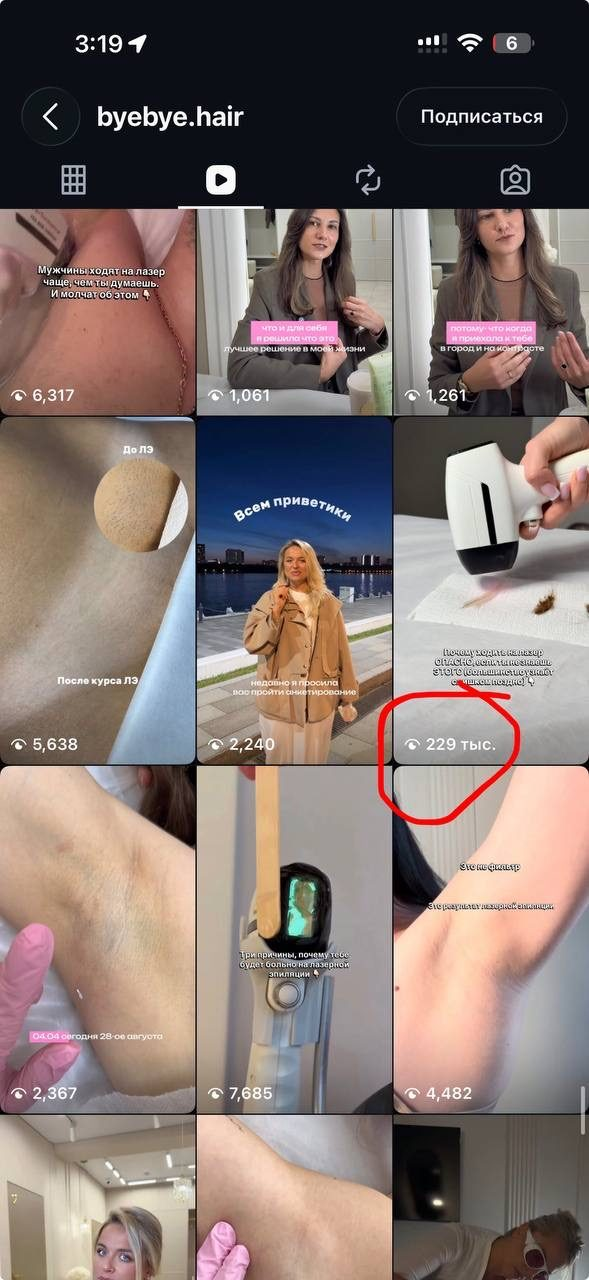
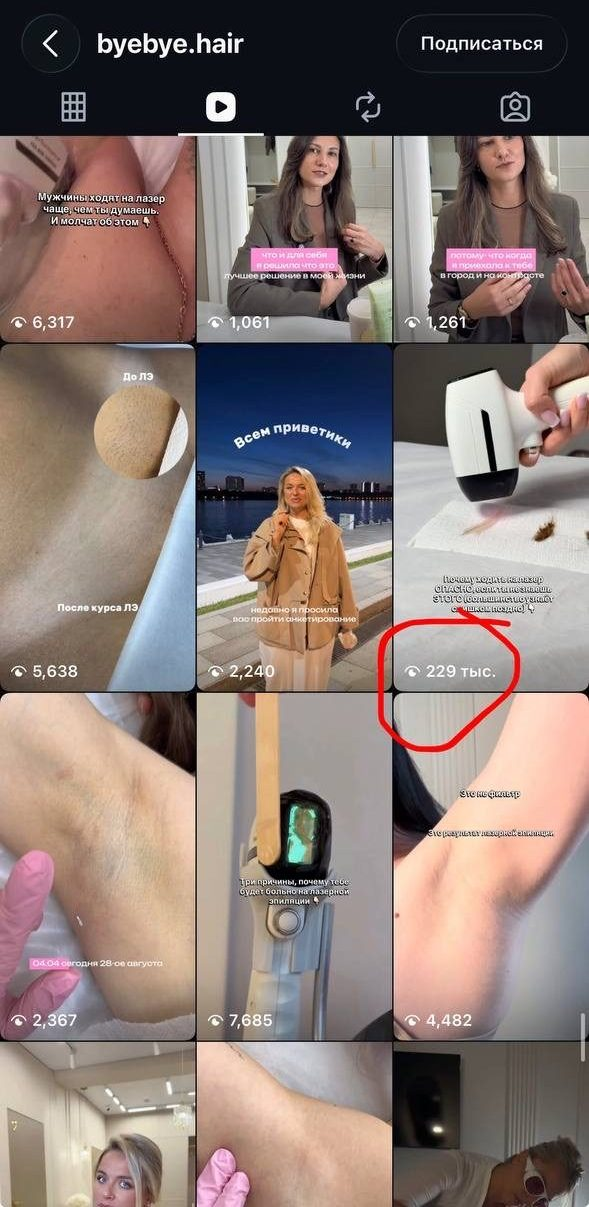
Кейс 1 млн: ДО Эдгара, +10к за месяц → миллион; англоязычный аккаунт отдельно; крупные цифры ДО; без статус-баров
Claude-Session: https://claude.ai/code/session_01CNwDrc3vxLTo57Fss5oR83

diff --git a/reels/index.html b/reels/index.html
@@ -328,6 +328,13 @@ footer{font-size:13px;color:var(--muted);margin-top:40px}
 .cz-after + .cz-bang{margin-top:18px!important}
 .tried .bc-k{font-size:clamp(22px,6.6vw,36px)}
 
+/* крупные цифры ДО */
+.views.dim{display:grid;grid-template-columns:repeat(auto-fill,minmax(96px,1fr));gap:8px;margin:6px 0 14px}
+.views.dim span{font-size:clamp(20px,6.2vw,26px);color:#f1eaf1;background:rgba(255,255,255,.07);border:1px solid rgba(255,255,255,.16);border-radius:14px;padding:12px 6px;text-align:center;line-height:1}
+.views.dim span::after{content:"👁";display:block;font-size:11px;margin:6px 0 0;opacity:.55;font-family:var(--f-body)}
+.views.dim.noeye span::after{content:none}
+.cz-before .tag{background:rgba(255,255,255,.14);color:#fff}
+
 </style>
 </head>
 <body>
@@ -394,15 +401,15 @@ footer{font-size:13px;color:var(--muted);margin-top:40px}
     <article class="cz" data-tab="🚗">
       <span class="cz-niche">Личный бренд · автомобили · Испания</span>
       <h3 class="cz-hook">1 000 000 ПОДПИСЧИКОВ ЗА ГОД. Да, миллион</h3>
-      <div class="cz-before"><span class="tag">ДО</span><p>До нас ролики этого блога <b>выше 2000 просмотров вообще ничего не набирали.</b> Ни ниши, ни аудитории, ни понимания формата.</p><div class="views dim"><span>≈600</span><span>до 2 000</span></div></div>
+      <div class="cz-before"><span class="tag">ДО</span><p>До нас ролики этого блога <b>выше 2000 просмотров вообще ничего не набирали.</b> 2 700 подписчиков, ни ниши, ни аудитории, ни понимания формата.</p><div class="views dim"><span>1 594</span><span>1 835</span><span>2 218</span><span>2 264</span><span>2 329</span><span>3 630</span></div><div class="ph-wrap"><div class="ph"><img loading="lazy" width="900" height="1843" src="../img/edgar-before.jpg" alt="Просмотры до: 1594, 1835, 2218, 2264, 2329, 3630"><img loading="lazy" class="wide" width="900" height="301" src="../img/edgar-2709.jpg" alt="2 709 подписчиков"></div><div class="ph-nav"><span class="ph-dots"><i></i><i></i></span><span class="ph-hint">листай скрины →</span></div></div></div>
       <p class="cz-bang">💥 БАЦ. Мы придумываем им формат 👇</p>
-      <div class="cz-after"><span class="tag">ПОСЛЕ</span><p class="cz-big chrome"><span class="cnt" data-to="1000000">1 000 000</span></p><div class="views hot"><span>3,3 млн</span><span>3,1 млн</span><span>2,7 млн</span><span>2,2 млн</span><span>2 млн</span><span>879к</span></div><p>Так мы начинали 🔥 С 600 просмотров вышли на миллионники, <b>+10 000 подписчиков за первый месяц</b> за 20 рилс, дальше 105 тысяч, а через год — <span class="hl">МИЛЛИОН</span>. Люди 1000 подписчиков за год набрать не могут, а мы сделали миллион. Даже Вика Боня на них подписалась 😏</p><div class="ph-wrap"><div class="ph"><img loading="lazy" width="900" height="1826" src="../img/edgar-chat.jpg" alt="Так мы начинали: 158 тыс., 879 тыс. в чате с клиентом"><img loading="lazy" width="900" height="1137" src="../img/edgar-10k.jpg" alt="+10 000 подписчиков в первый месяц за 20 рилс: 3,3 млн, 3,1 млн, 2,7 млн"><img loading="lazy" width="900" height="1437" src="../img/edgar-after.jpg" alt="После: 2 млн, 2,2 млн, 622 тыс."><img loading="lazy" class="wide" width="900" height="195" src="../img/edgar-105k.jpg" alt="105 тысяч подписчиков"><img loading="lazy" class="wide" width="800" height="520" src="../img/behind-3.jpg" alt="1 млн подписчиков, подписана victoriabonya"></div><div class="ph-nav"><span class="ph-dots"><i></i><i></i><i></i><i></i><i></i></span><span class="ph-hint">листай скрины →</span></div></div></div>
+      <div class="cz-after"><span class="tag">ПОСЛЕ</span><p class="cz-big chrome">+10 000</p><div class="views hot"><span>3,3 млн</span><span>3,1 млн</span><span>2,7 млн</span></div><p>Так мы начинали 🔥 Нашли формат очень быстро: с 600 просмотров вышли на миллионники и сделали <span class="hl">+10 000 подписчиков за первый месяц всего за 20 рилс.</span></p><div class="ph-wrap"><div class="ph"><img loading="lazy" width="900" height="1137" src="../img/edgar-10k.jpg" alt="+10 000 подписчиков в первый месяц за 20 рилс: 3,3 млн, 3,1 млн, 2,7 млн"><img loading="lazy" width="900" height="1826" src="../img/edgar-chat.jpg" alt="Так мы начинали: 158 тыс., 879 тыс. в чате с клиентом"></div><div class="ph-nav"><span class="ph-dots"><i></i><i></i></span><span class="ph-hint">листай скрины →</span></div></div></div><p class="cz-bang">🚀 А дальше — больше</p><div class="cz-after"><span class="tag">ЧЕРЕЗ ГОД</span><p class="cz-big chrome"><span class="cnt" data-to="1000000">1 000 000</span></p><div class="views hot"><span>подписчиков</span><span>0 ₽ на рекламу</span></div><p>Люди 1000 подписчиков за год набрать не могут, а мы сделали <span class="hl">МИЛЛИОН</span>. Даже Вика Боня на них подписалась 😏</p><div class="ph-wrap"><div class="ph"><img loading="lazy" width="900" height="1437" src="../img/edgar-after.jpg" alt="2 млн, 2,2 млн, 622 тыс."><img loading="lazy" class="wide" width="900" height="195" src="../img/edgar-105k.jpg" alt="105 тысяч подписчиков"><img loading="lazy" class="wide" width="800" height="520" src="../img/behind-3.jpg" alt="1 млн подписчиков, подписана victoriabonya"></div><div class="ph-nav"><span class="ph-dots"><i></i><i></i><i></i></span><span class="ph-hint">листай скрины →</span></div></div></div>
     </article><article class="cz" data-tab="💆♀">
       <span class="cz-niche">Студия лазерной эпиляции</span>
       <h3 class="cz-hook">Ни один СММщик не дал им результата. А с первых же моих рилс — МИЛЛИОН 😳</h3>
-      <div class="cz-before"><span class="tag">ДО</span><p>Студия пробовала и то, и сё: нанимала разных СММщиков, снимала «наши преимущества» и «почему мы лучшие». <b>Никто не дал результата.</b> Все просмотры были вот такие 👇</p><div class="views dim"><span>1 068</span><span>1 732</span><span>2 053</span><span>1 220</span></div><div class="ph one"><img loading="lazy" width="589" height="1280" src="../img/laser-before.jpg" alt="Просмотры студии до: по 1–2 тысячи"></div></div>
+      <div class="cz-before"><span class="tag">ДО</span><p>Студия пробовала и то, и сё: нанимала разных СММщиков, снимала «наши преимущества» и «почему мы лучшие». <b>Никто не дал результата.</b> Все просмотры были вот такие 👇</p><div class="views dim"><span>1 068</span><span>1 732</span><span>2 053</span><span>1 220</span></div><div class="ph one"><img loading="lazy" width="589" height="1207" src="../img/laser-before.jpg" alt="Просмотры студии до: по 1–2 тысячи"></div></div>
       <p class="cz-bang">💥 БАЦ. Студия приходит ко мне 👇</p>
-      <div class="cz-after"><span class="tag">ПОСЛЕ</span><div class="views hot"><span>1 млн</span><span>229к</span><span>183к</span><span>119к</span><span>102к</span><span>71к</span></div><p>Просмотры <b>сразу же с первых рилс.</b> Один ролик — <span class="hl">1 млн просмотров и +130 заявок</span>, а за ним десятки роликов на 10–200 тысяч. А потом прилетает вот такое сообщение, и там уже 5,1 млн 🔥</p><div class="ph-wrap"><div class="ph"><img loading="lazy" width="589" height="1280" src="../img/laser-after5.jpg" alt="1 млн просмотров"><img loading="lazy" width="589" height="1280" src="../img/laser-after1.jpg" alt="229 тыс."><img loading="lazy" width="589" height="1280" src="../img/laser-after3.jpg" alt="183 тыс., 43,8 тыс., 52,5 тыс."><img loading="lazy" width="589" height="1280" src="../img/laser-after7.jpg" alt="71 тыс., 102 тыс., 35,3 тыс."><img loading="lazy" width="589" height="1280" src="../img/laser-after2.jpg" alt="19,9 тыс., 28,2 тыс., 119 тыс."><img loading="lazy" width="589" height="1280" src="../img/laser-after4.jpg" alt="50,3 тыс., 19 тыс., 27,6 тыс."><img loading="lazy" width="589" height="1280" src="../img/laser-after6.jpg" alt="36,8 тыс., 46,2 тыс., 28,6 тыс."><img loading="lazy" width="900" height="1356" src="../img/laser-dasha.jpg" alt="«Смотри просмотры»: 5,1 млн и 568 тыс."></div><div class="ph-nav"><span class="ph-dots"><i></i><i></i><i></i><i></i><i></i><i></i><i></i><i></i></span><span class="ph-hint">листай скрины →</span></div></div></div>
+      <div class="cz-after"><span class="tag">ПОСЛЕ</span><div class="views hot"><span>1 млн</span><span>229к</span><span>183к</span><span>119к</span><span>102к</span><span>71к</span></div><p>Просмотры <b>сразу же с первых рилс.</b> Один ролик — <span class="hl">1 млн просмотров и +130 заявок</span>, а за ним десятки роликов на 10–200 тысяч. А потом прилетает вот такое сообщение, и там уже 5,1 млн 🔥</p><div class="ph-wrap"><div class="ph"><img loading="lazy" width="589" height="1207" src="../img/laser-after5.jpg" alt="1 млн просмотров"><img loading="lazy" width="589" height="1207" src="../img/laser-after1.jpg" alt="229 тыс."><img loading="lazy" width="589" height="1207" src="../img/laser-after3.jpg" alt="183 тыс., 43,8 тыс., 52,5 тыс."><img loading="lazy" width="589" height="1207" src="../img/laser-after7.jpg" alt="71 тыс., 102 тыс., 35,3 тыс."><img loading="lazy" width="589" height="1207" src="../img/laser-after2.jpg" alt="19,9 тыс., 28,2 тыс., 119 тыс."><img loading="lazy" width="589" height="1207" src="../img/laser-after4.jpg" alt="50,3 тыс., 19 тыс., 27,6 тыс."><img loading="lazy" width="589" height="1207" src="../img/laser-after6.jpg" alt="36,8 тыс., 46,2 тыс., 28,6 тыс."><img loading="lazy" width="900" height="1356" src="../img/laser-dasha.jpg" alt="«Смотри просмотры»: 5,1 млн и 568 тыс."></div><div class="ph-nav"><span class="ph-dots"><i></i><i></i><i></i><i></i><i></i><i></i><i></i><i></i></span><span class="ph-hint">листай скрины →</span></div></div></div>
     </article><article class="cz" data-tab="🏝">
       <span class="cz-niche">Элитная недвижимость · Пхукет</span>
       <h3 class="cz-hook">Ни одна команда не могла набрать ему даже 10 тысяч. А потом пришла я 😏</h3>
@@ -414,13 +421,13 @@ footer{font-size:13px;color:var(--muted);margin-top:40px}
       <h3 class="cz-hook">Сама себе кейс 😎 Десятки роликов-миллионников</h3>
       <div class="cz-before"><span class="tag">ДО</span><p>Мой аккаунт стартовал вот отсюда 👇</p><div class="views dim"><span>901 подписчик</span></div><div class="ph one"><img loading="lazy" class="wide" width="842" height="235" src="../img/acc1-901.jpg" alt="901 подписчик"></div></div>
       <p class="cz-bang">💥 БАЦ. Я берусь за свой блог 👇</p>
-      <div class="cz-after"><span class="tag">ПОСЛЕ</span><p class="cz-big chrome">47 000</p><div class="views hot"><span>17,2 млн</span><span>9,2 млн</span><span>9 млн</span><span>6,1 млн</span><span>4,6 млн</span><span>4 млн</span><span>3,9 млн</span><span>3,2 млн</span></div><p>Я вырастила собственный аккаунт <span class="hl">до 47 тысяч подписчиков</span>. И это не один случайный залёт, а <b>десятки миллионников</b>.</p><div class="ph-wrap"><div class="ph"><img loading="lazy" width="900" height="1056" src="../img/my-reels-4m.jpg" alt="4,6 млн, 4 млн, 3,9 млн, 3,2 млн, 2,7 млн"><img loading="lazy" width="783" height="1280" src="../img/my-reels-17m.jpg" alt="17,2 млн, 1,1 млн, 768 тыс., 436 тыс."><img loading="lazy" class="wide" width="900" height="575" src="../img/my-reels-phone.jpg" alt="9,2 млн, 9 млн, 6,1 млн, 3,2 млн, 2,4 млн"><img loading="lazy" class="wide" width="900" height="246" src="../img/acc-47k.jpg" alt="47,4 тыс. подписчиков"></div><div class="ph-nav"><span class="ph-dots"><i></i><i></i><i></i><i></i></span><span class="ph-hint">листай скрины →</span></div></div></div><p class="cz-bang">🔁 А потом я сделала это ещё раз</p><div class="cz-after"><span class="tag">ВТОРОЙ АККАУНТ · С НУЛЯ</span><p class="cz-big chrome">0 → 18 000</p><div class="views hot"><span>за 4 месяца</span></div><p>Второй аккаунт до <b>18 тысяч за 4 месяца</b>. Во второй раз. Так же с нуля. И смогу повторить результат ещё хоть сколько раз, потому что <span class="hl">знаю, КАК это делать.</span></p><div class="ph-wrap"><div class="ph"><img loading="lazy" class="wide" width="900" height="256" src="../img/acc2-0.jpg" alt="0 подписчиков"><img loading="lazy" class="wide" width="900" height="291" src="../img/acc2-10k.jpg" alt="10 тыс. подписчиков"><img loading="lazy" class="wide" width="900" height="235" src="../img/acc2-14k.jpg" alt="14,8 тыс. подписчиков"><img loading="lazy" class="wide" width="900" height="207" src="../img/acc2-18k.jpg" alt="18,2 тыс. подписчиков"></div><div class="ph-nav"><span class="ph-dots"><i></i><i></i><i></i><i></i></span><span class="ph-hint">листай скрины →</span></div></div></div>
+      <div class="cz-after"><span class="tag">ПОСЛЕ</span><p class="cz-big chrome">47 000</p><div class="views hot"><span>17,2 млн</span><span>9,2 млн</span><span>9 млн</span><span>6,1 млн</span><span>3,2 млн</span><span>2,4 млн</span><span>1,7 млн</span><span>1,2 млн</span></div><p>Я вырастила собственный аккаунт <span class="hl">до 47 тысяч подписчиков</span>. И это не один случайный залёт, а <b>десятки миллионников</b>.</p><div class="ph-wrap"><div class="ph"><img loading="lazy" width="783" height="1280" src="../img/my-reels-17m.jpg" alt="17,2 млн, 1,1 млн, 768 тыс., 436 тыс."><img loading="lazy" class="wide" width="900" height="575" src="../img/my-reels-phone.jpg" alt="9,2 млн, 9 млн, 6,1 млн, 3,2 млн, 2,4 млн"><img loading="lazy" class="wide" width="900" height="246" src="../img/acc-47k.jpg" alt="47,4 тыс. подписчиков"></div><div class="ph-nav"><span class="ph-dots"><i></i><i></i><i></i></span><span class="ph-hint">листай скрины →</span></div></div></div><p class="cz-bang">🔁 А потом я сделала это ещё раз</p><div class="cz-after"><span class="tag">ВТОРОЙ АККАУНТ · С НУЛЯ</span><p class="cz-big chrome">0 → 18 000</p><div class="views hot"><span>за 4 месяца</span></div><p>Второй аккаунт до <b>18 тысяч за 4 месяца</b>. Во второй раз. Так же с нуля. И смогу повторить результат ещё хоть сколько раз, потому что <span class="hl">знаю, КАК это делать.</span></p><div class="ph-wrap"><div class="ph"><img loading="lazy" class="wide" width="900" height="256" src="../img/acc2-0.jpg" alt="0 подписчиков"><img loading="lazy" class="wide" width="900" height="291" src="../img/acc2-10k.jpg" alt="10 тыс. подписчиков"><img loading="lazy" class="wide" width="900" height="235" src="../img/acc2-14k.jpg" alt="14,8 тыс. подписчиков"><img loading="lazy" class="wide" width="900" height="207" src="../img/acc2-18k.jpg" alt="18,2 тыс. подписчиков"></div><div class="ph-nav"><span class="ph-dots"><i></i><i></i><i></i><i></i></span><span class="ph-hint">листай скрины →</span></div></div></div><p class="cz-bang">🇬🇧 А ещё по приколу</p><div class="cz-after"><span class="tag">АНГЛОЯЗЫЧНЫЙ АККАУНТ</span><div class="views hot"><span>4,6 млн</span><span>4 млн</span><span>3,9 млн</span><span>3,2 млн</span><span>2,7 млн</span></div><p>Миллионные просмотры я делала себе и на англоязычном аккаунте. Так что <span class="hl">я могу сделать качественные просмотры в любой нише и на любом языке.</span> Хоть английский я и не знаю 😅</p><div class="ph one"><img loading="lazy" width="900" height="1056" src="../img/my-reels-en.jpg" alt="Англоязычные рилсы: 4,6 млн, 4 млн, 3,9 млн, 3,2 млн, 2,7 млн"></div></div>
     </article><article class="cz" data-tab="🏋">
       <span class="cz-niche">Фитнес-тренер Илья</span>
       <h3 class="cz-hook">9 из 10 рилс — сразу в залёт. Вы где такое видели?</h3>
-      <div class="cz-before"><span class="tag">ДО</span><p>Ролики, которые Илья снимал сам: <b>727, 987, 1 019, 1 849 просмотров.</b> И все вокруг говорят, что новые аккаунты раскачиваются месяцами, а то и годами.</p><div class="views dim"><span>727</span><span>987</span><span>1 019</span><span>1 849</span></div><div class="ph one"><img loading="lazy" width="900" height="1955" src="../img/ilya-before.jpg" alt="Просмотры до: 1849, 987, 1019, 727"></div></div>
+      <div class="cz-before"><span class="tag">ДО</span><p>Ролики, которые Илья снимал сам: <b>727, 987, 1 019, 1 849 просмотров.</b> И все вокруг говорят, что новые аккаунты раскачиваются месяцами, а то и годами.</p><div class="views dim"><span>727</span><span>987</span><span>1 019</span><span>1 849</span></div><div class="ph one"><img loading="lazy" width="900" height="1843" src="../img/ilya-before.jpg" alt="Просмотры до: 1849, 987, 1019, 727"></div></div>
       <p class="cz-bang">💥 БАЦ. Подключаемся мы 👇</p>
-      <div class="cz-after"><span class="tag">ПОСЛЕ</span><p class="cz-big chrome">9 из 10</p><div class="views hot"><span>379к</span><span>361к</span><span>291к</span><span>168к</span><span>66,5к</span><span>32,6к</span></div><p>Мы эту теорию опровергли: <span class="hl">9 из 10 роликов сразу в залёте.</span> Покажите мне, кто ещё так делает? Это только мы так умеем 😎</p><div class="ph-wrap"><div class="ph"><img loading="lazy" width="900" height="1955" src="../img/ilya-after2.jpg" alt="379 тыс., 32,6 тыс., 13,2 тыс., 30,1 тыс."><img loading="lazy" width="900" height="1955" src="../img/ilya-after1.jpg" alt="168 тыс., 66,5 тыс., 361 тыс., 27 тыс., 25,6 тыс."><img loading="lazy" width="900" height="1499" src="../img/ilya-reels.jpg" alt="До 291 тыс. просмотров"></div><div class="ph-nav"><span class="ph-dots"><i></i><i></i><i></i></span><span class="ph-hint">листай скрины →</span></div></div></div>
+      <div class="cz-after"><span class="tag">ПОСЛЕ</span><p class="cz-big chrome">9 из 10</p><div class="views hot"><span>379к</span><span>361к</span><span>291к</span><span>168к</span><span>66,5к</span><span>32,6к</span></div><p>Мы эту теорию опровергли: <span class="hl">9 из 10 роликов сразу в залёте.</span> Покажите мне, кто ещё так делает? Это только мы так умеем 😎</p><div class="ph-wrap"><div class="ph"><img loading="lazy" width="900" height="1843" src="../img/ilya-after2.jpg" alt="379 тыс., 32,6 тыс., 13,2 тыс., 30,1 тыс."><img loading="lazy" width="900" height="1843" src="../img/ilya-after1.jpg" alt="168 тыс., 66,5 тыс., 361 тыс., 27 тыс., 25,6 тыс."><img loading="lazy" width="900" height="1499" src="../img/ilya-reels.jpg" alt="До 291 тыс. просмотров"></div><div class="ph-nav"><span class="ph-dots"><i></i><i></i><i></i></span><span class="ph-hint">листай скрины →</span></div></div></div>
     </article>
   </div>
   <div class="rv-nav cz-nav"><button type="button" class="rv-btn cz-prev" aria-label="Предыдущий кейс">←</button><span class="rv-count"><b>1</b> / 5</span><button type="button" class="rv-btn cz-next" aria-label="Следующий кейс">→</button></div>
@@ -480,7 +487,7 @@ footer{font-size:13px;color:var(--muted);margin-top:40px}
     </article><article class="cz" data-tab="💬">
       <span class="cz-niche">Ученица Даша · эксперт по отношениям</span>
       <h3 class="cz-hook">С 4 тысяч до 570 тысяч у своей клиентки 😳</h3>
-      <div class="cz-before"><span class="tag">ДО</span><p>Ролики клиентки набирали <b>по 4–5 тысяч.</b></p><div class="views dim"><span>4 199</span><span>4 376</span><span>4 793</span></div><div class="ph one"><img loading="lazy" width="591" height="1280" src="../img/dasha-grid.jpg" alt="Ролики клиентки: 4–5 тысяч, первые залёты 13–28 тысяч"></div></div>
+      <div class="cz-before"><span class="tag">ДО</span><p>Ролики клиентки набирали <b>по 4–5 тысяч.</b></p><div class="views dim"><span>4 199</span><span>4 376</span><span>4 793</span></div><div class="ph one"><img loading="lazy" width="591" height="1207" src="../img/dasha-grid.jpg" alt="Ролики клиентки: 4–5 тысяч, первые залёты 13–28 тысяч"></div></div>
       <p class="cz-bang">💥 БАЦ. Даша применяет то, что разобрали 👇</p>
       <div class="cz-after"><span class="tag">ПОСЛЕ</span><p class="cz-big chrome">570 000</p><div class="views hot"><span>570к</span><span>200к</span><span>90,3к</span><span>28,3к</span><span>26,5к</span><span>19,1к</span></div><p>«ооо нихуяя» — это я, когда увидела 😂 Пишу этот текст и прям гордость берёт, <b>реально желаю каждому таких учениц</b> ❤</p><div class="ph-wrap"><div class="ph"><img loading="lazy" width="900" height="867" src="../img/dasha-570k.jpg" alt="200 тыс. и 570 тыс.: «Даже уже вот так»"><img loading="lazy" width="738" height="1155" src="../img/dasha-90k.jpg" alt="90,3 тыс."><img loading="lazy" width="900" height="1334" src="../img/dasha-wow.jpg" alt="«ооо нихуяя, Даша ты красотка!!!»"></div><div class="ph-nav"><span class="ph-dots"><i></i><i></i><i></i></span><span class="ph-hint">листай скрины →</span></div></div></div>
     </article><article class="cz" data-tab="📈">
